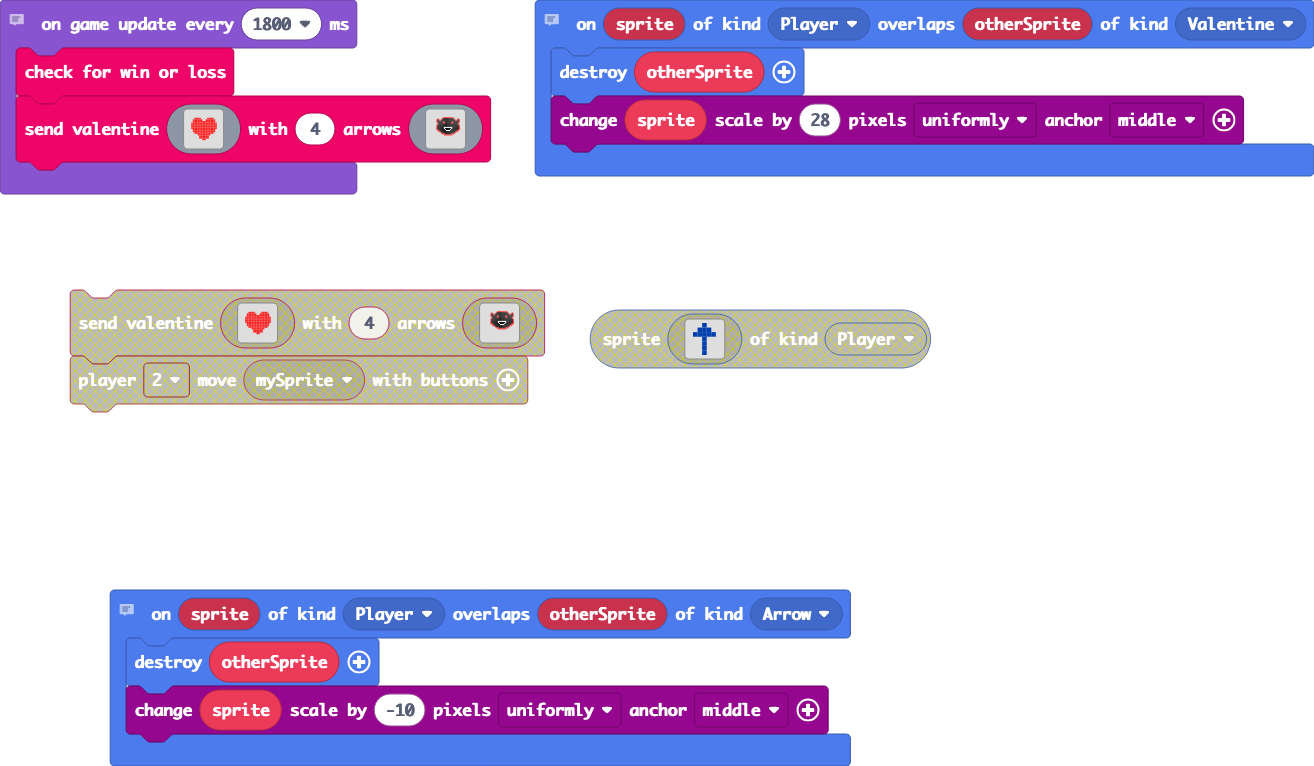
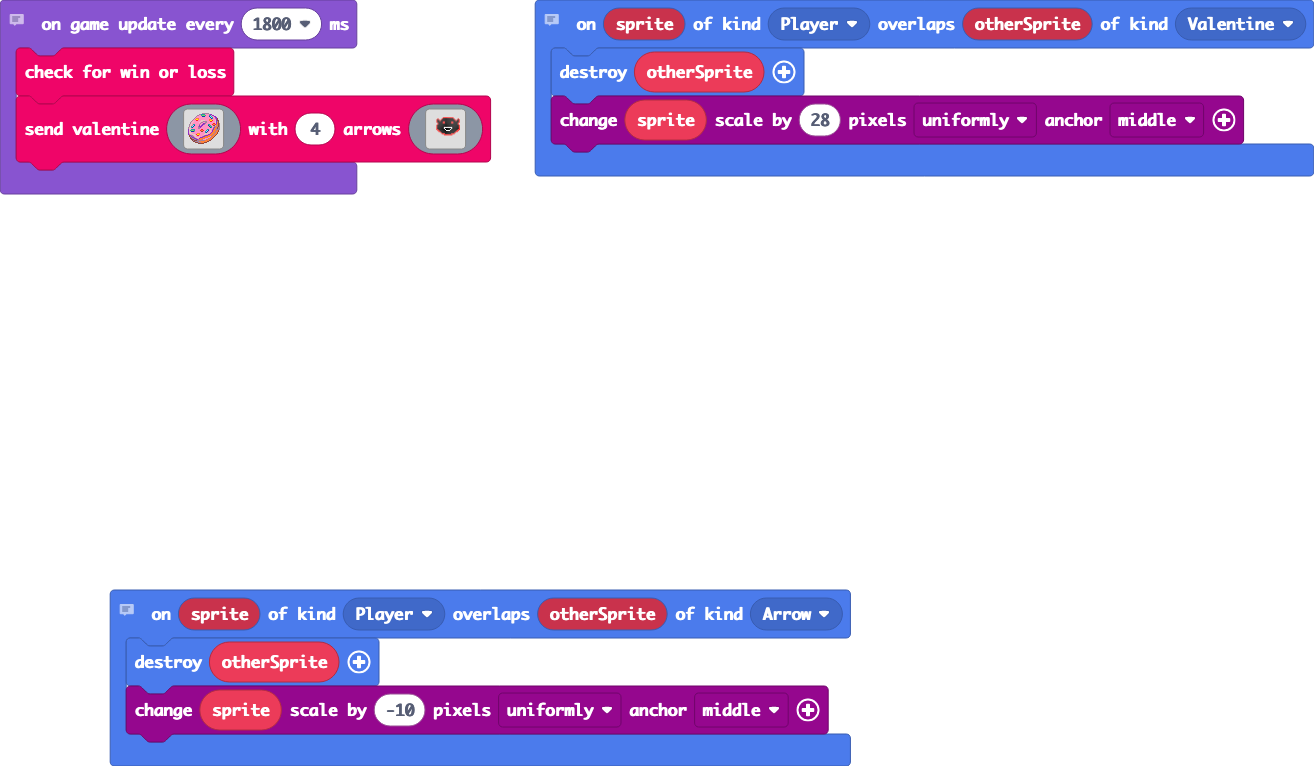
Update main.blocks, images.g.jres, images.g.ts

Changed region(s): [[0.0312, 0.3603, 0.7177, 0.5405], [0.1248, 0.1501, 0.1872, 0.1802]]

diff --git a/images.g.ts b/images.g.ts
@@ -26,29 +26,6 @@ namespace myImages {
 ....................
 ....................
 `;
-            case "image1":
-            case "cupid hearts":return img`
-....................
-....................
-....................
-....2222....2222....
-...222222..222222...
-...22222222222222...
-..2222222222222222..
-..2222222222222222..
-..2222222222222222..
-..2222222222222222..
-...22222222222222...
-...22222222222222...
-....222222222222....
-......22222222......
-.......222222.......
-.......222222.......
-.........22.........
-....................
-....................
-....................
-`;
             case "image2":
             case "enemy":return img`
 ..............................
@@ -81,6 +58,41 @@ namespace myImages {
 ..............................
 ..............................
 ..............................
+`;
+            case "image1":
+            case "cupid hearts":return img`
+..............bbbbbbb...........
+...........bb66663333baa........
+.........bb3367776333663aa......
+........b33333888333389633aa....
+.......b3333333333333389633aa...
+......b34443333333333338633bae..
+.....b3455433333333334443333ae..
+....b33322333dddd3333455233daee.
+...b3d333333dd3bbbb33322333dabe.
+..b3d333333d3bb33bb33333333da4e.
+..bd33333333b33aab3333333223a4ee
+.b3d3663333b33aab33366332442b4ee
+.bd3b983333a3aa3333387633ee3b4ee
+.bd6983333baaa333333387633bb4bee
+b3d6833333bba333333333863ba44ebe
+bdd3333333bb3333333333333a44bebe
+add666633333322333366333ba44bbbe
+ad67776333332442336983d3a444b4e.
+add888b333333ee3369833d3a44b44e.
+add333333333333336833d3a444b4e..
+a3dd3333344433333dddd3a444b44e..
+ab33ddd325543333dd33aa444b44e...
+.eabb3dd32233333baaa4444b44e....
+.ebabb3d333d33baa444443b44e.....
+..ebaab3ddd3aaa4444433b44e......
+..eebbaab33a44444333b444e.......
+...eeebbaab444b333b4444e........
+....ebeeebbbbbbbb4444ee.........
+.....eebbbb44444444ee...........
+.......eeebbb444eee.............
+..........eeeeee................
+................................
 `;
         }
         return null;
